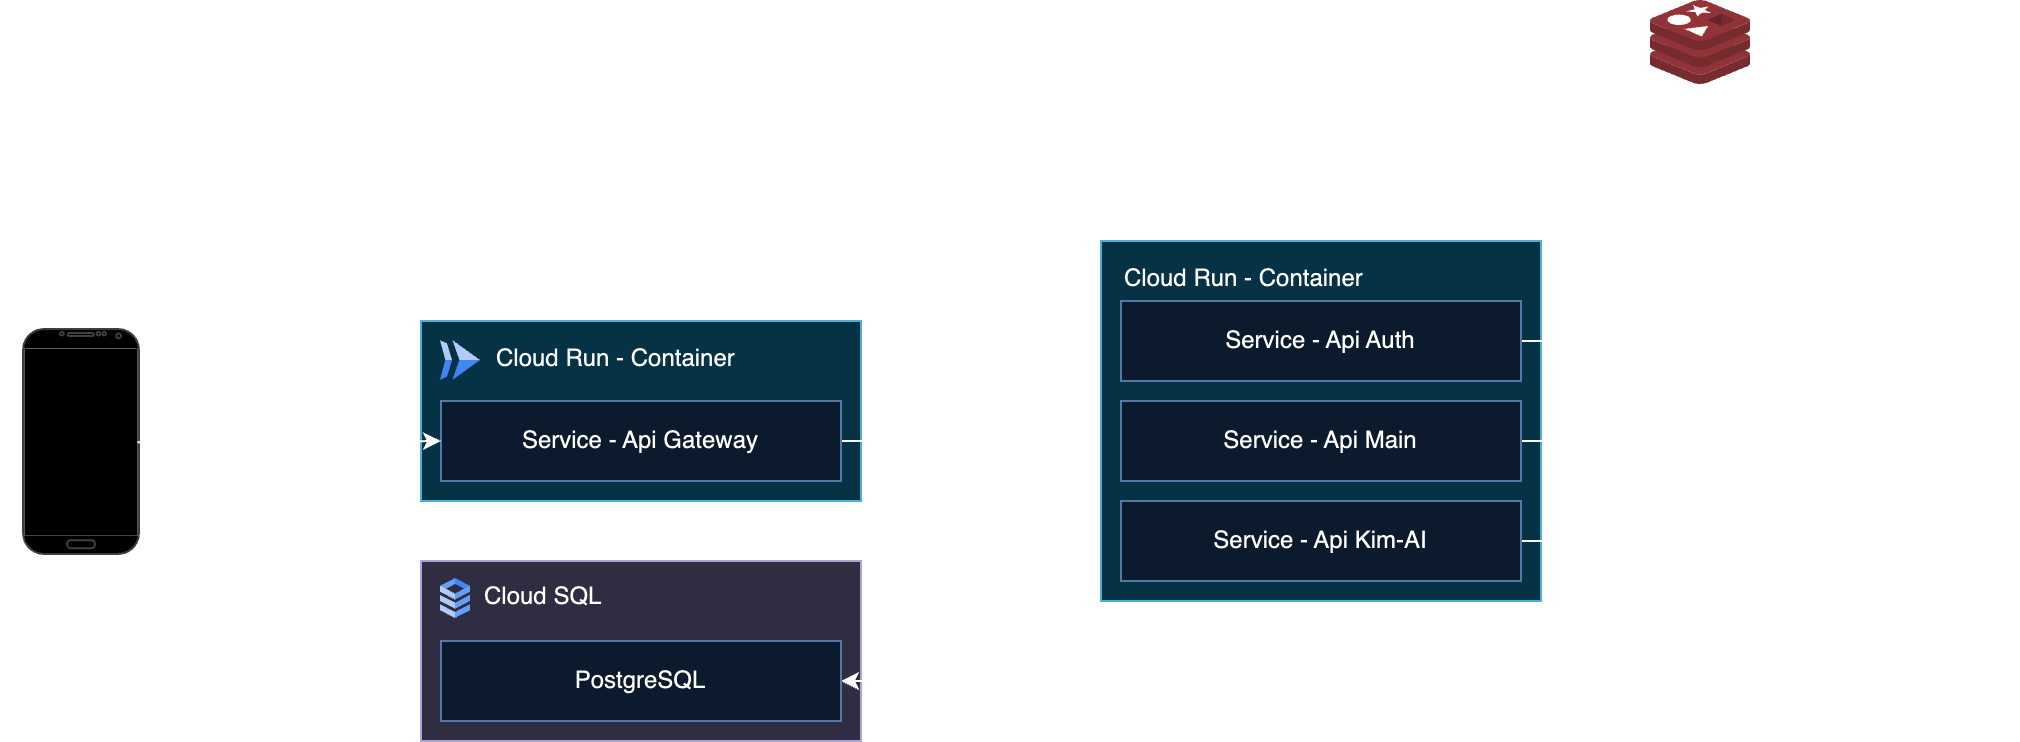
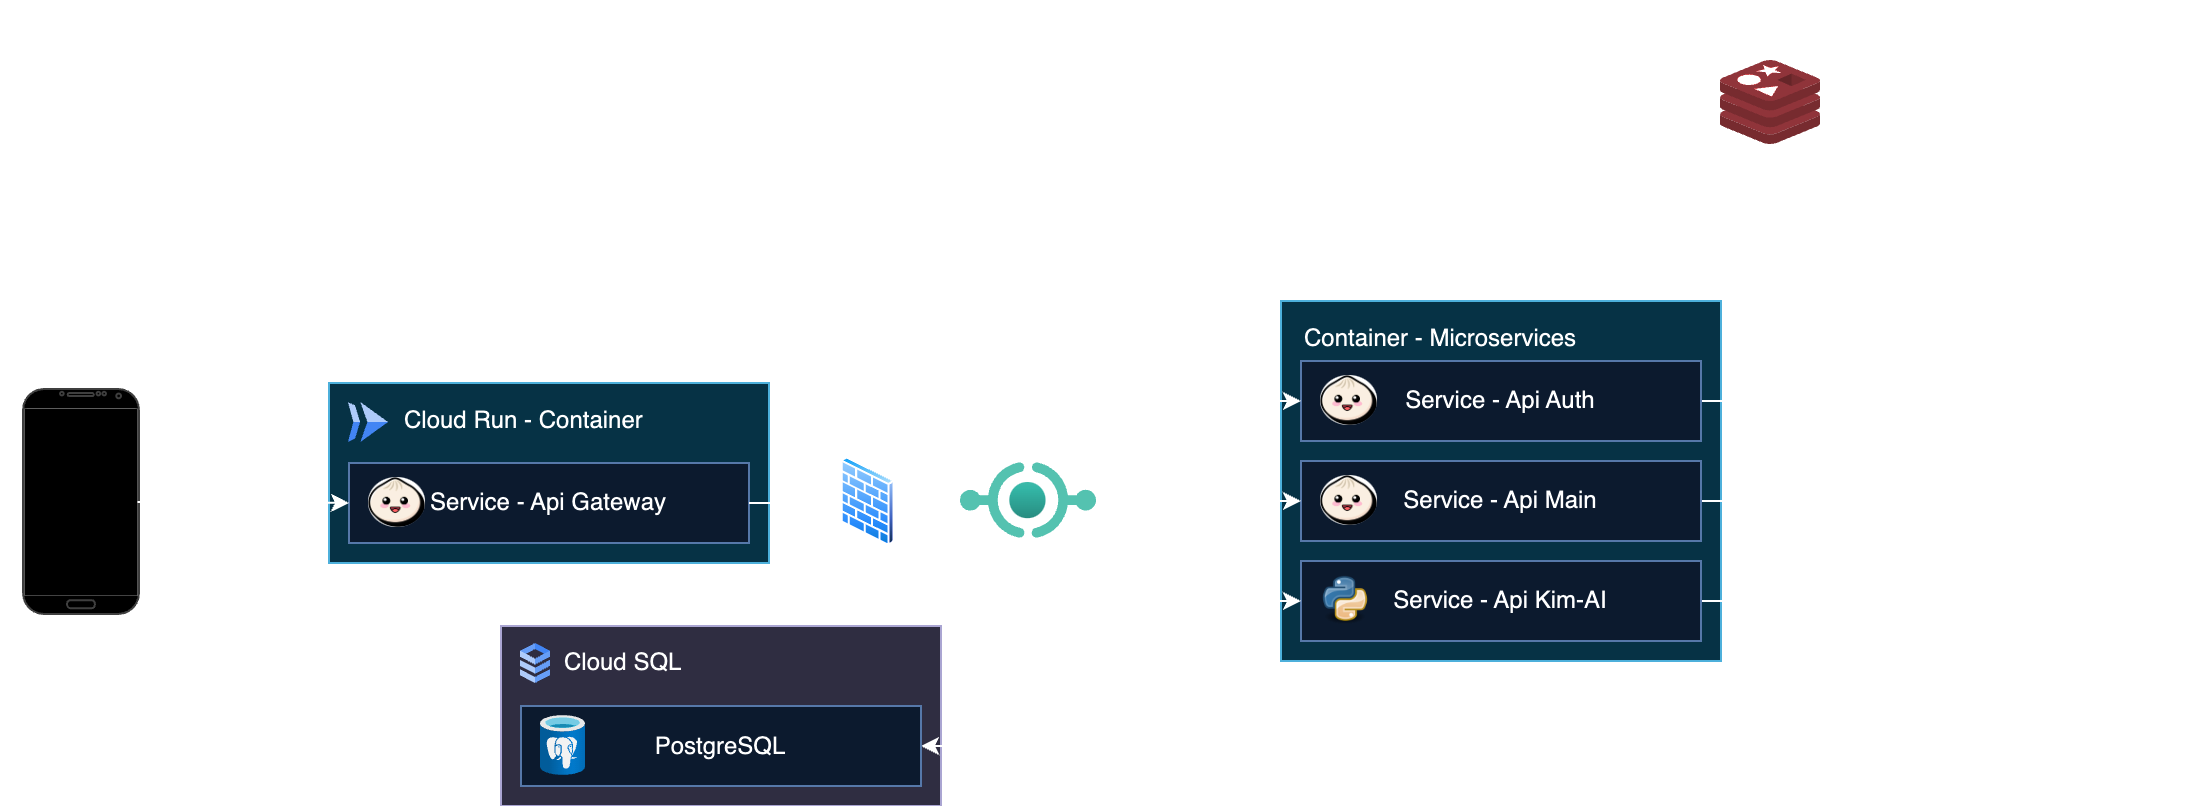
📝 docs: update images on readme

diff --git a/README.md b/README.md
@@ -34,8 +34,22 @@ i recommend to use this text editor for development:
 ## Contributing Guide
 [Contribute Guide](CONTRIBUTING.md)
 
-## Architecture
+## Architecture Design
+
+### Service Architecture
 ![CICD](./assets/arch.png)
+Note :
+- `api-gateway` - api service for handling all the api request
+    - `proxy` - proxy all the request to the right service
+    - `auth` - handle authentication for all the request, if request has token, it will be validated first to the `api-auth` service
+    - `security` - handle security for all the request
+        - `rate-limit` - handle rate limit for all the request
+        - `cors` - handle cors for all the request (for now it's disabled, because we handle mobile app)
+- `api-auth` - api service for handling authentication
+- `api-main` - api service for handling main features
+- `kim-ai` - ai service for handling all the ai request
+- `postgres` - database service for handling all the data
+- `redis` - cache service for handling authentication token (for now)
 
 ### Continuous Integration & Continuous Deployment Architecture
 ![CICD](./assets/cicd.png)
